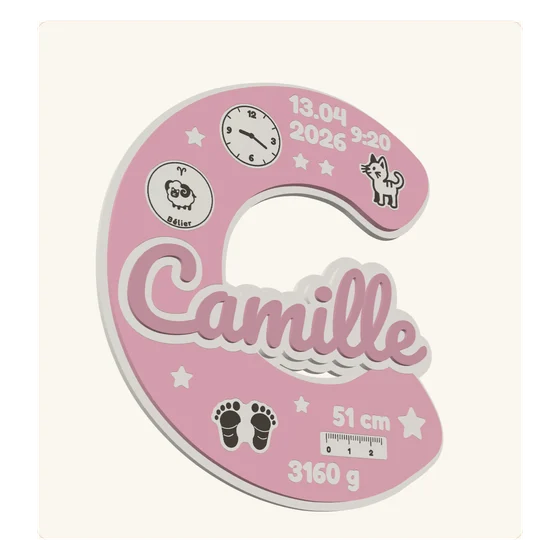
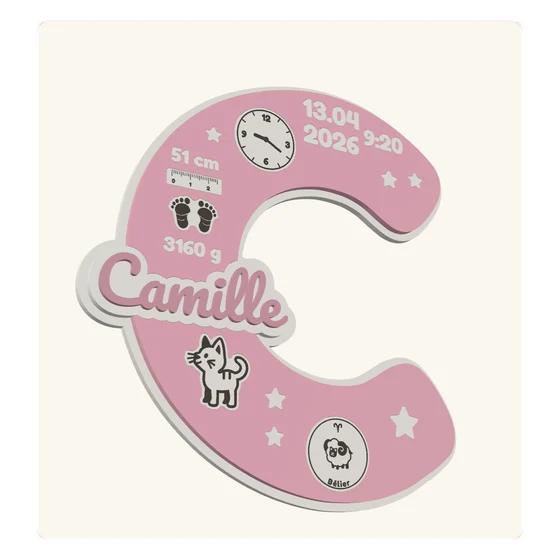
Lettre de naissance (maquette cliente) : le prénom est posé sur la barre de la lettre
Le prénom se centre là où il repose le plus sur la matière, juste sous l'heure,
et rétrécit tant que moins de la moitié de sa plaque est sur la lettre
(mesure de surface). 78 prénoms mesurés : au moins 52 % sur la lettre.
Images d'exemple refaites. L'outil d'atelier n'est pas touché.

Claude-Session: https://claude.ai/code/session_013Nt78VnTBT8S9aqZe85f4z

Changed region(s): [[0.1214, 0.1214, 0.8196, 0.9411]]

diff --git a/tools/maquettes/lettre-client.py b/tools/maquettes/lettre-client.py
@@ -221,6 +221,7 @@ __FIL__
  <div class="sc-avalider"><b>À valider avec vous avant de construire</b><ul>
   <li>Prix proposés par moi : __PRIXL__ la lettre décorée, __PRIXB__ de plus avec sa boîte. Relevé du marché : lettre en bois simplement gravée 12 à 21 €, prénom de naissance en bois 35 à 45 €.</li>
   <li>Une seule taille : environ __HAUTCM__ cm de haut (ce que votre machine découpe aujourd'hui dans 180 × 180 mm).</li>
+  <li>Le prénom est posé sur la barre de la lettre, à peu près centré dessus, juste sous l'heure (votre demande du 13/11) : jamais plus de la moitié en dehors de la lettre. Sur une lettre fine, il rétrécit pour tenir.</li>
   <li>La cliente ne déplace rien et ne règle aucune pièce : tout se place tout seul. Sur une lettre fine (I, J, L…), la lettre est épaissie toute seule pour faire de la place, et le prénom dépasse sur le côté, comme sur votre outil.</li>
   <li>En 3D, la lettre tourne toute seule sur 360° et, avec la boîte, le couvercle se soulève et se repose : la cliente voit que c'est une boîte. Les images « fermée / ouverte » sont un exemple (prénom Camille) dessiné par l'outil : à remplacer par de vraies photos dès que vous en avez.</li>
   <li>Les sept couleurs sont celles de l'aperçu de votre outil : à remplacer par vos vraies couleurs (peinture ou matière).</li>
@@ -245,13 +246,43 @@ L.pol.forEach(function(p){try{var f=new FontFace('lc-'+p.id,'url(data:font/ttf;b
 function vide(){return !C.nom.trim()&&!C.date&&!C.heure&&!String(C.taille).trim()&&!String(C.poids).trim()}
 function initiale(){var l=(vide()?D.exemple.nom:C.nom||'P').trim().charAt(0)||'P';l=l.normalize('NFD').replace(/[̀-ͯ]/g,'').toUpperCase();return /[A-Z0-9]/.test(l)?l:'P'}
 var DECORS=[['etoiles','Étoiles'],['nuages','Nuages'],['coeurs','Cœurs'],['lune','Lune et étoiles'],['melange','Mélange'],['sans','Sans décor']],tous=false,note='';
+/* Le prénom se pose SUR la barre de la lettre (gérant, 13/11 : « il faut pas que la lettre soit aussi à l'extérieur… à peu près centré sur le L, sur la barre ») :
+   on cherche le milieu de la matière de la lettre à la hauteur de la plaque (le pied d'un L, l'ouverture d'un C ne comptent pas), et on y centre la plaque. */
+var PLQ={};
+/* les bandes de matière de la lettre, ligne par ligne, à la hauteur de la plaque (en mm) */
+function bandes(g){var L=g.L,P=g.P;if(!L||!L.length||!P)return null;var x0=1e18,x1=-1e18;L.forEach(function(r){r.forEach(function(q){if(q.X<x0)x0=q.X;if(q.X>x1)x1=q.X})});
+ var E=(x1-x0)/g.W,ya=P.b.y*E,yb=(P.b.y+P.b.h)*E,o=[],n=24,i,k;
+ for(i=0;i<n;i++){var y=ya+(yb-ya)*(i+.5)/n,xs=[];L.forEach(function(r){for(var j=0;j<r.length;j++){var a=r[j],b=r[(j+1)%r.length];if((a.Y<=y&&b.Y>y)||(b.Y<=y&&a.Y>y))xs.push(a.X+(y-a.Y)*(b.X-a.X)/(b.Y-a.Y))}});
+  xs.sort(function(a,b){return a-b});var l=[];for(k=0;k+1<xs.length;k+=2)l.push([xs[k]/E,xs[k+1]/E]);o.push(l)}
+ return o}
+function milieuBarre(B){var som=0,poids=0;B.forEach(function(l){l.forEach(function(q){var w=q[1]-q[0];som+=w*(q[0]+q[1])/2;poids+=w})});return poids?som/poids:null}
+/* la part de la plaque (large de w, centrée en cx) qui repose sur la lettre */
+function partDedans(B,cx,w){var d=0;B.forEach(function(l){l.forEach(function(q){d+=Math.max(0,Math.min(q[1],cx+w/2)-Math.max(q[0],cx-w/2))})});return d/(w*B.length)}
+/* l'endroit où le prénom repose le plus sur la lettre ; à égalité, le plus près du milieu de la matière */
+function meilleur(B,w){var cm=milieuBarre(B),x0=1e9,x1=-1e9,l=[],mx=0,x,bx=cm;B.forEach(function(r){r.forEach(function(q){if(q[0]<x0)x0=q[0];if(q[1]>x1)x1=q[1]})});
+ for(x=x0-w/2;x<=x1+w/2;x+=0.5){var pp=partDedans(B,x,w);l.push([x,pp]);if(pp>mx)mx=pp}
+ var d=1e9;l.forEach(function(q){if(q[1]>=mx-0.02&&Math.abs(q[0]-cm)<d){d=Math.abs(q[0]-cm);bx=q[0]}});return{x:bx,part:mx}}
+/* la part RÉELLE de la plaque posée sur la lettre (surface, mesurée sur une petite grille) */
+function partReelle(g){var b=g.P.b,k=3,cv=document.createElement('canvas');cv.width=Math.max(2,Math.ceil(b.w*k));cv.height=Math.max(2,Math.ceil(b.h*k));var x=cv.getContext('2d'),x0=1e18,x1=-1e18;
+ g.L.forEach(function(r){r.forEach(function(q){if(q.X<x0)x0=q.X;if(q.X>x1)x1=q.X})});var E=(x1-x0)/g.W;
+ function tr(rs){x.beginPath();rs.forEach(function(r){r.forEach(function(q,i){var px=(q.X/E-b.x)*k,py=(q.Y/E-b.y)*k;if(i)x.lineTo(px,py);else x.moveTo(px,py)});x.closePath()});x.fill('evenodd')}
+ x.fillStyle='#000';tr(g.P.plaqueA);var d=x.getImageData(0,0,cv.width,cv.height).data,tot=0,ded=0,i;for(i=3;i<d.length;i+=4)if(d[i]>128)tot++;
+ x.globalCompositeOperation='destination-in';tr(g.L);d=x.getImageData(0,0,cv.width,cv.height).data;for(i=3;i<d.length;i+=4)if(d[i]>128)ded++;return tot?ded/tot:1}
+function poser(S){var pq=S.el.plaque,cle=[S.nom,S.polNom,S.pol,S.gras,S.H].join('|'),g,c=PLQ[cle];
+ if(c){pq.auto=false;pq.k=c.k;pq.fx=c.fx;pq.fy=0.565;N.maj();return N.calcul()}
+ pq.auto=true;pq.k=1;N.maj();g=N.calcul();var B=g.P?bandes(g):null;if(!B||milieuBarre(B)==null)return g;
+ /* jamais plus de la moitié du prénom en dehors de la lettre : sinon il rétrécit (jusqu'à 0,4), et on revérifie sur la vraie forme */
+ var w0=g.P.b.w,m=meilleur(B,w0),k=1,t,r;if(m.part<0.6){k=Math.max(0.4,m.part/0.6);m=meilleur(B,w0*k)}
+ for(t=0;t<5;t++){pq.auto=false;pq.k=k;pq.fx=m.x/g.H;pq.fy=0.565;N.maj();g=N.calcul();if(!g.P)break;r=partReelle(g);if(r>=0.52||k<=0.4)break;
+  k=Math.max(0.4,k*Math.max(0.8,r/0.56));B=bandes(g);m=meilleur(B,g.P.b.w*k/pq.k)}
+ PLQ[cle]={fx:pq.fx,k:pq.k};return g}
 function appliquer(){var S=N.etat(),ex=vide(),src=ex?D.exemple:C;
  S.nom=String(src.nom||'').trim();S.lettre='';S.date=src.date||'';S.heure=src.heure||'';S.taille=String(src.taille||'').trim();S.poids=String(src.poids||'').trim();S.libre='';
  S.coul=C.coul;S.animal=C.animal;S.decor=C.decor==='sans'?'etoiles':C.decor;S.nbEt=C.decor==='sans'?0:6;S.signe=C.signe?'auto':'aucun';S.signeStyle='dessin';S.horloge='grave';
  S.pol=C.pol;S.polNom=C.polNom;S.H=D.haut;S.bord=3;S.bt.on=!!C.boite;S.exemple=false;S.num=false;S.sel=null;
  Object.keys(S.el).forEach(function(i){var e=S.el[i];e.on=true;e.mode='inc';e.auto=true;e.k=1});
  /* une lettre fine : on l'épaissit jusqu'à ce que tout tienne */
- var g=null,gras=[0,3,6],i;for(i=0;i<gras.length;i++){S.gras=gras[i];N.maj();g=N.calcul();if(!g.perdus||!g.perdus.length)break}
+ var g=null,gras=[0,3,6],i;for(i=0;i<gras.length;i++){S.gras=gras[i];g=poser(S);if(!g.perdus||!g.perdus.length)break}
  note=g&&g.perdus&&g.perdus.length?'Sur cette lettre, il n\'y a pas la place pour : '+g.perdus.map(function(a){return a.d.nom.toLowerCase()}).join(', ')+'. Pour lui faire de la place, retirez le signe du zodiaque ou une information.':'';
  $('exTag').hidden=!ex;
  ecran()}

diff --git a/CLAUDE.md b/CLAUDE.md
@@ -1,5 +1,5 @@
 ## 👶 MAQUETTE « LETTRE DE NAISSANCE », VERSION SIMPLE POUR LES CLIENTES — 13/11/2026 soir (gérant, devant l'outil lettre : « tu touches pas à l'atelier que tu m'as fait, j'aime bien tous les détails… il faut que tu facilites au maximum pour les clients, pour mettre sur le site. Ne mets rien sur le site… dans admin tu laisses comme c'est… une deuxième version des produits qu'on a mis ») — EN ATTENTE DE SON AVIS, RIEN en ligne
-- **Artifact** https://claude.ai/artifact/KGkiaB9gP3qSj1xHqtiDLo (v2) · `python3 tools/maquettes/lettre-client.py <page de base> <clipper.js> <opentype.min.js> <sortie.html>`
+- **Artifact** https://claude.ai/artifact/KGkiaB9gP3qSj1xHqtiDLo (v3) · `python3 tools/maquettes/lettre-client.py <page de base> <clipper.js> <opentype.min.js> <sortie.html>`
   (`<page de base>` = sortie d'un autre créateur, ex. `arbre-base.html` ; sortie de 2,1 Mo non commitée).
 - **Principe** : la fiche du site + un parcours court, par-dessus le MÊME calcul que l'outil d'atelier, sans y toucher : `lettre-incrustee.js` et les champs de `lettre-incrustee.py`
   sont posés dans la page mais CACHÉS (`<div hidden id="moteur">`), la couche cliente (`window.NivLettreCliente`) écrit dans `NivLettre.etat()` puis `NivLettre.maj()`.
@@ -17,6 +17,11 @@
   dessinées par l'outil) sur les deux cartes de l'étape 5 et dans le bloc « Une vraie boîte, en forme de sa lettre » :
   `NODE_PATH=$(npm root -g) node tools/maquettes/lettre-client-images.cjs <page> <three.min.js> docs/maquettes/assets/lettre-cliente` puis relancer le générateur.
   À remplacer par de vraies photos dès qu'il en a. Essais : 60 + 22 vérifications, 0 erreur. « Même pour les autres trucs » : question posée (quels produits ?).
+- **v3 (13/11 soir, capture « Léa » sur le L : « il faut pas que la lettre soit aussi à l'extérieur… à peu près centré sur le L, sur la barre… même pour les autres lettres, pas la moitié
+  de la matière à l'extérieur… juste en dessous de l'heure »)** : dans la version cliente, le prénom est posé SUR la matière de la lettre, à la hauteur juste sous l'heure (`fy = 0.565`),
+  centré là où il repose le plus (`bandes`, `meilleur`), et il rétrécit (jusqu'à 0,4) tant que moins de la moitié de sa plaque est sur la lettre (`partReelle`, mesure de surface ; `poser`,
+  cache `PLQ`). Mesuré sur 78 prénoms (26 lettres × court, moyen, long) : au moins 52 % sur la lettre partout, plus petite taille 0,46. ⛔ L'outil d'atelier et L'atelier de Gestion gardent
+  LEUR placement (non touchés, sa consigne) : question posée, veut-il la même règle là aussi ? Images d'exemple refaites. Essais : t2, t5, t8 au vert, planche des 26 lettres regardée.
 - **Proposé par moi, à valider** : 34,90 € la lettre décorée, + 15 € avec sa boîte (marché relevé : lettre en bois simplement gravée 12 à 21 €, prénom de naissance en bois
   35 à 45 €) · une seule taille, 16,5 cm · les 7 couleurs = celles de l'aperçu de l'outil, à remplacer par ses vraies couleurs · texte libre, horloge ajourée, « Gravé »,
   réglages de la boîte non proposés à la cliente · catégorie « Bébé & Enfant ».

diff --git a/docs/EN-ATTENTE.md b/docs/EN-ATTENTE.md
@@ -6,7 +6,7 @@
 
 
 ## 🧰 13/11/2026 SOIR — L'ATELIER DANS GESTION : CE QUI ATTEND SON AVIS
-- **Lettre de naissance, version simple pour les clientes** : maquette https://claude.ai/artifact/KGkiaB9gP3qSj1xHqtiDLo (v1), rien en ligne. Attendre son avis ; à valider : 34,90 € + 15 € la boîte, taille unique 16,5 cm, vraies couleurs ; faut-il simplifier aussi les 7 autres créations et faire la boîte seule côté cliente ?
+- **Lettre de naissance, version simple pour les clientes** : maquette https://claude.ai/artifact/KGkiaB9gP3qSj1xHqtiDLo (v3 : rotation 360°, boîte qui s'ouvre, prénom posé sur la barre de la lettre), rien en ligne. Question posée : la même règle de placement du prénom dans l'outil d'atelier ? Attendre son avis ; à valider : 34,90 € + 15 € la boîte, taille unique 16,5 cm, vraies couleurs ; faut-il simplifier aussi les 7 autres créations et faire la boîte seule côté cliente ?
 - **Signes du zodiaque : MIS DE CÔTÉ par le gérant le 13/11 soir** (« on va voir après ») : état gardé = animaux + Gémeaux / Lion / Vierge / Verseau refaits en dessins (lettre v11, L'atelier v11) ; son image de symboles essayée puis refusée par lui. C'est LUI qui en reparle.
 - **L'atelier** est dans sa propre catégorie « Logiciel de création » du menu de Gestion (plus dans Tests).
 - **Signes du zodiaque** : il n'aime pas le médaillon. Planche de 4 styles envoyée (A, B, C, D) : attendre son choix avant de toucher aux signes.
